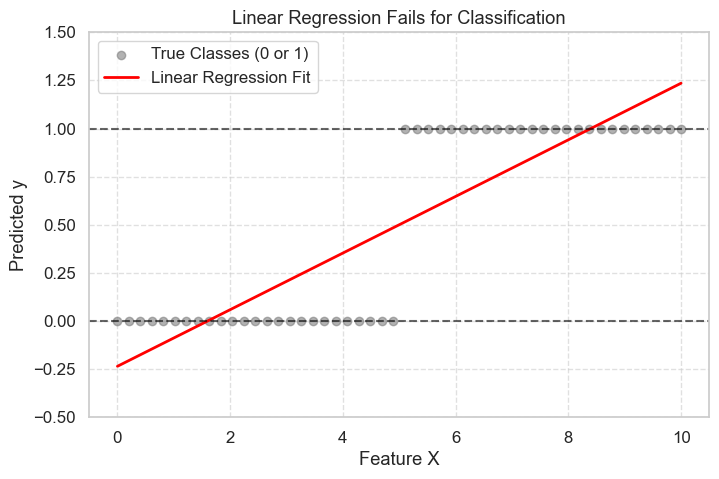
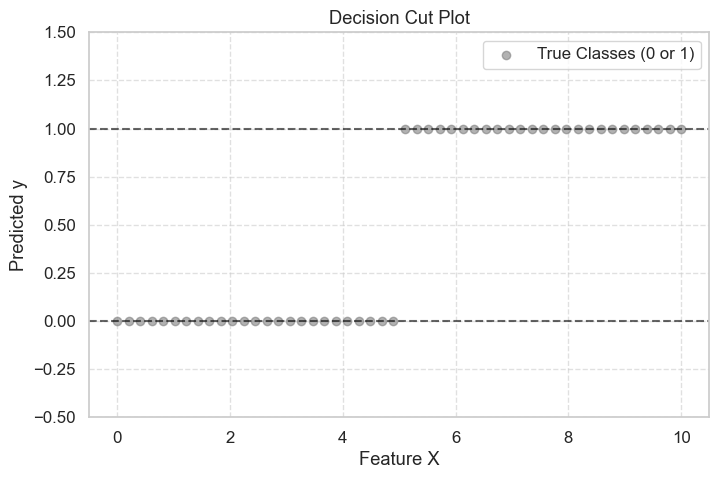
asds

diff --git a/courses/machine-learning-foundations/lectures/lec-04.md b/courses/machine-learning-foundations/lectures/lec-04.md
@@ -6,24 +6,7 @@ nav_section: lectures
 nav_order: 4
 ---
 
-
-
-{% capture ex %}
-
-{% endcapture %}
-{% include codeinput.html content=ex %}  
-
-{% capture ex %}
-
-{% endcapture %}
-{% include codeoutput.html content=ex %}  
-
-
-
-
 # Lecture 04: Logistic Regression and Naive Bayes Calssification
-
-
 
 ## Setup: Import Libraries
 
@@ -103,53 +86,62 @@ warnings.filterwarnings("ignore")  # keep output clean for class demos
 
 
 
+
 ## Logistic Regression
 
+We’ve learned how to use **linear regression** to predict *continuous* outcomes, like housing prices:
 
-So far, we’ve used **linear regression** to predict *continuous* outcomes:
 $$
 y = \beta_0 + \beta_1 x_1 + \beta_2 x_2 + \cdots
 $$
-where $y$ would be something like housing prices or number of dogs.
 
-But, suppose we wanted to know what *kind* of house or dog we were being given in the data? In simpler terms, what if we want to predict a **category** instead — like:
-- Will a student pass or fail? (0 or 1)
-- Will a customer buy the product? (yes/no)
-- Will a penguin be male or female?
+Here, $ y $ might represent something like the price of a house or the number of cats a person owns (yes, crazy cat people are absolutely valid data points).
 
-If we try to use linear regression for this kind of problem, we run into trouble:
-- It can predict values **less than 0 or greater than 1** — impossible for probabilities.
-- The relationship between \(x\) and \(y\) is often *nonlinear*.
+But now suppose we want to answer a *different* kind of question.
 
+What if we’re not interested in predicting a number, but instead want to know *what kind* of thing we’re looking at?
+
+In simpler terms, what if we want to predict a **category**, such as:
+- Will a student **pass or fail**? (0 or 1)
+- Will a customer **buy the product or not**? (yes / no)
+- Is a penguin **male or female**?
+
+If we try to use **linear regression** for this type of problem, we quickly run into trouble:
+
+- can predict values less than 0 or greater than 1, which don’t make sense for categories.
+- doesn’t naturally give us probabilities or a clear sense of how confident it is in a classification.
+- relationships between the features $ x $ and a categorical outcome $ y $ are often nonlinear for categorization problems.
+
+This is where **classification models**, models designed specifically to predict *categories* rather than continuous values, come into play.
+
+Suppose we have a single feature and data points that belong to one of two categories. In that case, there should exist some point along that feature where we can make a **decision cut** and say:
+
+- everything **below** this cut is **Category A**, and  
+- everything **above** this cut is **Category B**.
+
+This cut defines a **decision boundary** in feature space.  
+
+Let’s look at a plot of this idea for reference:
 
 {% capture ex %}
 ```python
-# === Linear Regression Misfit Example ===
-
 # Generate fake binary data
 np.random.seed(42)
 X = np.linspace(0, 10, 50)
 y = (X > 5).astype(int)  # 0 for X <= 5, 1 for X > 5
 
-# Fit linear regression for illustration (not for accuracy)
-from sklearn.linear_model import LinearRegression
-lin_model = LinearRegression().fit(X.reshape(-1, 1), y)
-y_pred_linear = lin_model.predict(X.reshape(-1, 1))
-
 # Plot
 plt.figure(figsize=(8,5))
 plt.scatter(X, y, color='gray', alpha=0.6, label='True Classes (0 or 1)')
-plt.plot(X, y_pred_linear, color='red', linewidth=2, label='Linear Regression Fit')
 plt.axhline(0, color='black', linestyle='--', alpha=0.6)
 plt.axhline(1, color='black', linestyle='--', alpha=0.6)
 plt.ylim(-0.5, 1.5)
-plt.title("Linear Regression Fails for Classification")
+plt.title("Decision Cut Plot")
 plt.xlabel("Feature X")
 plt.ylabel("Predicted y")
 plt.legend()
 plt.grid(True, linestyle='--', alpha=0.6)
 plt.show()
-
 ```
 {% endcapture %}
 {% include codeinput.html content=ex %}  
